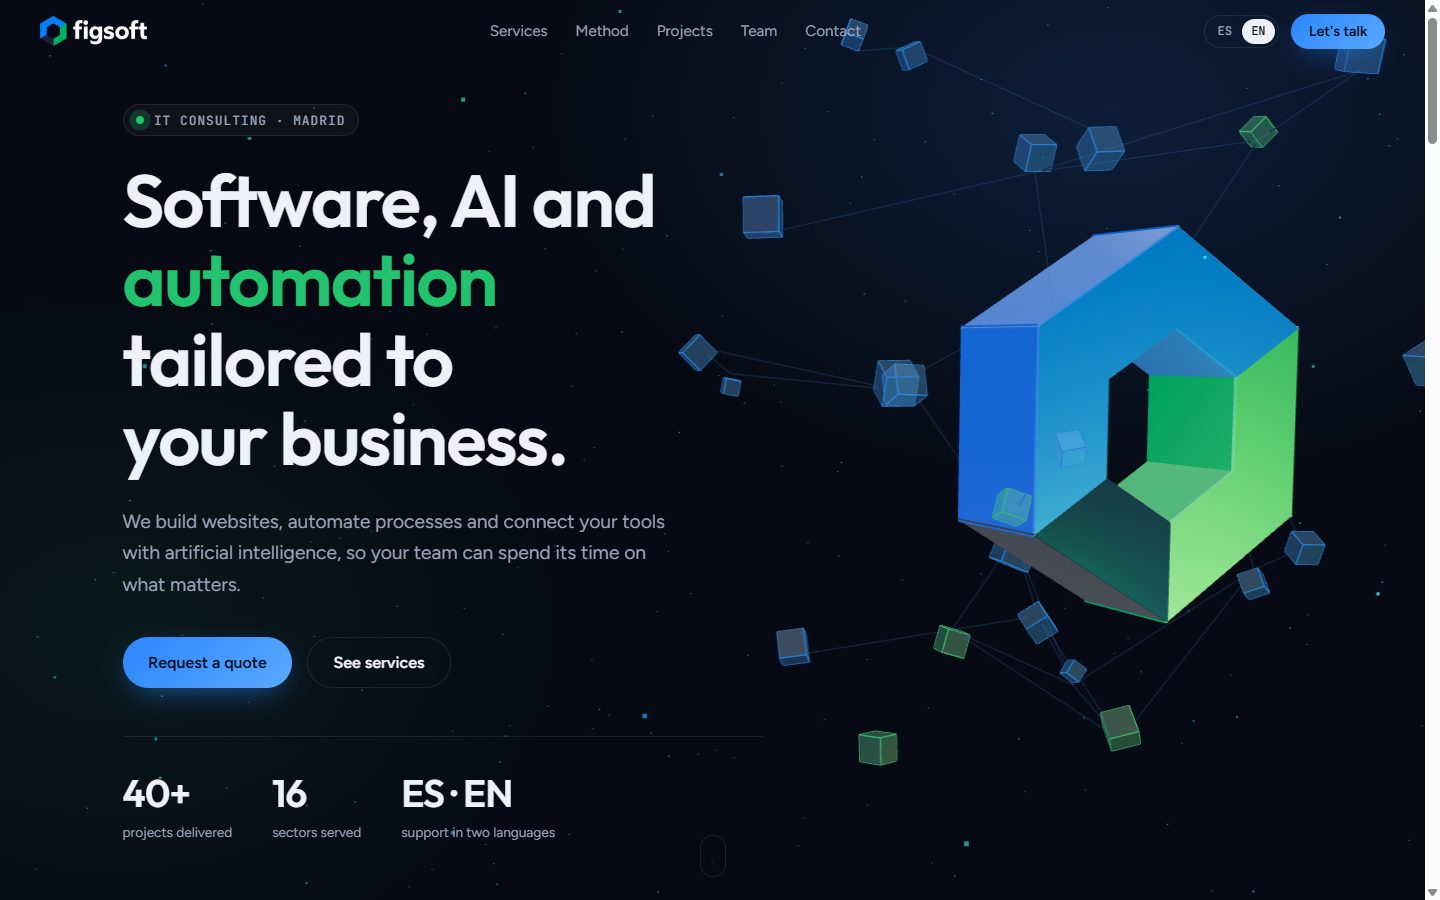
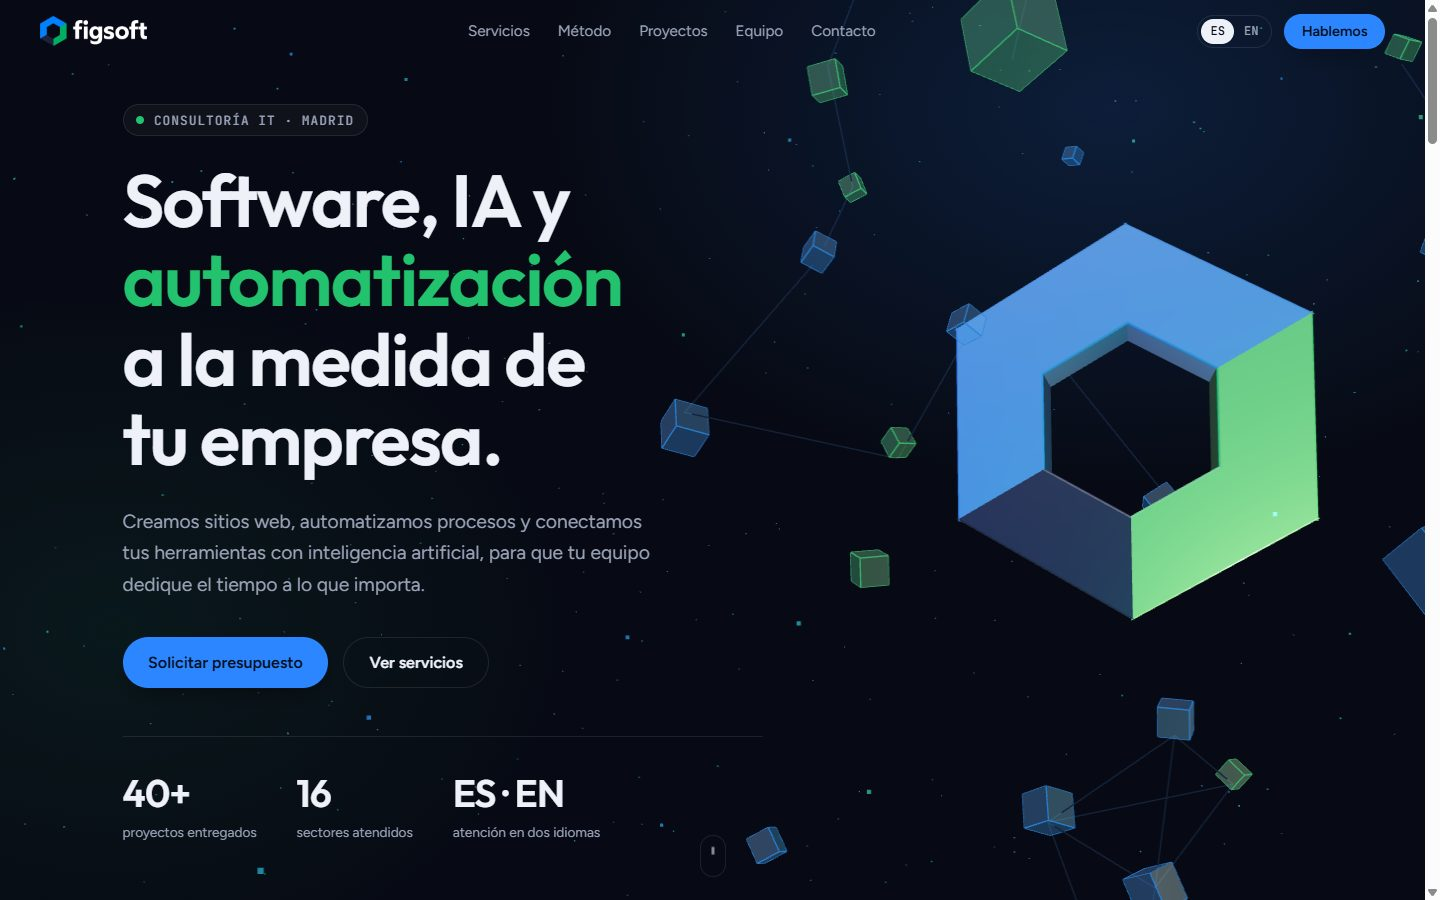
Documentación profesional: README con capturas, diagramas y guía de edición; menú móvil opaco
Claude-Session: https://claude.ai/code/session_014JvWStt7UZUV3uJTwEGxxS

diff --git a/styles.css b/styles.css
@@ -182,7 +182,7 @@ body::before { content: ""; position: fixed; inset: 0; z-index: -1; background:
 }
 @media (max-width: 760px) {
   .burger { display: block; }
-  .nav__links { position: fixed; inset: 64px 1rem auto 1rem; flex-direction: column; gap: 0; background: rgb(11 16 32 / .96); backdrop-filter: blur(18px); border: 1px solid var(--line); border-radius: var(--radius); padding: .5rem; margin: 0; opacity: 0; pointer-events: none; translate: 0 -8px; transition: opacity .3s, translate .3s var(--ease); }
+  .nav__links { position: fixed; inset: 64px 1rem auto 1rem; flex-direction: column; gap: 0; background: #0b1020; backdrop-filter: blur(18px); border: 1px solid var(--line); border-radius: var(--radius); padding: .5rem; margin: 0; opacity: 0; pointer-events: none; translate: 0 -8px; transition: opacity .3s, translate .3s var(--ease); }
   .nav__links.is-open { opacity: 1; pointer-events: auto; translate: 0 0; }
   .nav__links a { padding: .9rem 1rem; font-size: 1.05rem; }
   .nav__tools .btn { display: none; }

diff --git a/README.md b/README.md
@@ -1,46 +1,200 @@
+<div align="center">
+
+<img src="assets/mark.png" alt="Isotipo de Figsoft" width="88">
+
 # Figsoft
 
-Sitio web corporativo de **Figsoft**, consultora informática de Madrid especializada en desarrollo web, automatización de procesos, inteligencia artificial y software a medida.
+**Sitio web corporativo de Figsoft, consultora informática de Madrid**<br>
+Desarrollo web · Automatización · Inteligencia artificial · Software a medida
 
-**Web:** https://figueira205.github.io/Figsoft/
+[![Web](https://img.shields.io/badge/web-figueira205.github.io%2FFigsoft-2b86ff?style=flat-square)](https://figueira205.github.io/Figsoft/)
+![Estática](https://img.shields.io/badge/stack-HTML%20%C2%B7%20CSS%20%C2%B7%20JS-22c26e?style=flat-square)
+![three.js](https://img.shields.io/badge/3D-three.js%200.170-24263c?style=flat-square)
+![Idiomas](https://img.shields.io/badge/idiomas-ES%20%C2%B7%20EN-24263c?style=flat-square)
 
-![Portada](docs/preview.jpg)
+</div>
 
-## Qué hay en la página
+![Portada de la web de Figsoft](docs/preview.jpg)
 
-| Sección | Contenido |
+## Índice
+
+1. [Resumen](#resumen)
+2. [Recorrido por la página](#recorrido-por-la-página)
+3. [Cómo funciona](#cómo-funciona)
+4. [Escena 3D](#escena-3d)
+5. [Sistema de diseño](#sistema-de-diseño)
+6. [Versión móvil](#versión-móvil)
+7. [Accesibilidad y rendimiento](#accesibilidad-y-rendimiento)
+8. [Estructura del repositorio](#estructura-del-repositorio)
+9. [Ejecutar en local](#ejecutar-en-local)
+10. [Cómo editar el contenido](#cómo-editar-el-contenido)
+11. [Despliegue](#despliegue)
+12. [Decisiones de diseño y límites](#decisiones-de-diseño-y-límites)
+
+## Resumen
+
+Una página única que presenta a Figsoft: qué servicios ofrece, cómo trabaja, en qué sectores aplica su trabajo y cómo contactar. Está hecha con HTML, CSS y JavaScript puros, sin compilación ni dependencias que instalar, y se publica tal cual en GitHub Pages.
+
+| Característica | Detalle |
 |---|---|
-| **Portada** | Titular animado por líneas, cifras que se cuentan solas y el isotipo de Figsoft en 3D con una red de nodos que sigue al ratón y al scroll |
-| **Sectores** | Banda continua con los 16 sectores atendidos (se detiene al pasar el cursor) |
-| **Servicios** | Seis tarjetas con inclinación 3D y foco de luz que sigue al cursor: automatización, IA, web y e-commerce, software a medida, Odoo y ERP, consultoría |
-| **Método** | Cuatro fases con una línea de progreso que se rellena al bajar |
-| **Casos de uso** | Cinco escenarios de aplicación: legal, logística, administración pública, farma y fintech |
-| **Tecnología** | Herramientas que se usan en los proyectos |
-| **Equipo** | Fundador y CEO, y Chief Visionary Officer |
-| **Contacto** | Datos de contacto y formulario que abre el correo con el mensaje preparado |
+| Escena 3D | El isotipo del logotipo en three.js, con red de nodos y partículas que reaccionan al ratón y al scroll |
+| Idiomas | Español e inglés con un botón; recuerda la elección |
+| Adaptación | Escritorio, tableta y móvil, con menú propio en pantallas pequeñas |
+| Peso | Sin framework; three.js se carga desde una CDN y solo para la escena |
+| Respaldo | Si no hay WebGL, la web funciona igual con el fondo en degradado |
 
-Está en **español e inglés**: el botón ES/EN cambia todos los textos y recuerda la elección.
+## Recorrido por la página
+
+### Portada
+
+Titular que entra línea a línea, descripción, dos llamadas a la acción con efecto magnético y tres cifras que se cuentan al cargar. A la derecha, el isotipo en 3D. Debajo, una banda continua con los 16 sectores atendidos; se detiene al pasar el cursor.
+
+### Servicios
+
+![Sección de servicios](docs/servicios.jpg)
+
+Seis tarjetas: automatización de procesos, inteligencia artificial, desarrollo web y e-commerce, software a medida, Odoo y ERP, y consultoría IT. Cada una lleva etiquetas con las herramientas implicadas. Con ratón, la tarjeta se inclina en 3D y un foco de luz sigue al cursor.
+
+### Método
+
+![Sección de método](docs/metodo.jpg)
+
+Cuatro fases: diagnóstico, diseño de la solución, construcción por entregas y puesta en marcha. La línea vertical se rellena según avanzas y cada número se enciende al llegar a su fase. El titular queda fijo mientras se recorren los pasos.
+
+### Casos de uso
+
+![Sección de casos de uso](docs/proyectos.jpg)
+
+Cinco escenarios de aplicación: validación legal automatizada, CRM logístico con IA, atención ciudadana, control de stock farmacéutico y detección de fraude. Son ejemplos del tipo de trabajo, no proyectos con cliente nombrado.
+
+### Tecnología y equipo
+
+![Sección de equipo](docs/equipo.jpg)
+
+Una nube de etiquetas con las herramientas que se usan en los proyectos (n8n, Make, Odoo, Python, TypeScript, React, Vue, Angular, Node.js, PostgreSQL, Docker, Gemini API, WooCommerce, Supabase, Stripe, RabbitMQ, Django y Unity) y las tarjetas del equipo.
+
+### Contacto
+
+![Sección de contacto](docs/contacto.jpg)
+
+Correo, teléfonos y ubicación, más un formulario. Al enviarlo se validan los campos y se abre la aplicación de correo con el mensaje ya redactado, porque la web no tiene servidor.
+
+### Versión en inglés
+
+![Portada en inglés](docs/ingles.jpg)
+
+El botón **ES / EN** del menú cambia todos los textos sin recargar la página.
 
 ## Cómo funciona
 
-- **Sin compilación.** HTML, CSS y JavaScript puros, publicados con GitHub Pages. No hay `npm install` ni paso de build.
-- **Escena 3D (`scene.js`).** Usa [three.js](https://threejs.org) 0.170 cargado desde jsDelivr. El isotipo se construye con seis piezas hexagonales extruidas, una por lado, con los colores del logotipo (azul, verde y azul marino). Alrededor hay 30 cubos conectados por líneas y 900 partículas. El ratón gira el isotipo y mueve la cámara; el scroll lo desplaza, lo aleja y atenúa el lienzo para que no compita con el texto.
-- **Si falla el 3D.** Si el navegador no tiene WebGL o la CDN no responde, la escena se omite y la web sigue funcionando con el fondo en degradado.
-- **Interfaz (`main.js`).** Idioma, menú móvil, barra de navegación con cristal, entrada de bloques al hacer scroll, contadores, línea de progreso del método, botones magnéticos, inclinación de tarjetas y validación del formulario.
-- **Estilos (`styles.css`).** Tokens de color tomados del logotipo, tipografías Outfit, Figtree y JetBrains Mono, y adaptación a móvil.
-- **Movimiento reducido.** Con `prefers-reduced-motion` se apagan las animaciones y la escena 3D se dibuja una sola vez, sin bucle.
-- **Accesibilidad.** Enlace de salto, foco visible, menú con `aria-expanded` y contraste sobre fondo oscuro.
+```mermaid
+flowchart LR
+  A["index.html<br/>contenido y metadatos"] --> B["styles.css<br/>diseño y adaptación"]
+  A --> C["main.js<br/>interfaz"]
+  C --> D["scene.js<br/>escena 3D"]
+  D --> E["three.js<br/>CDN jsDelivr"]
+  C --> F["Idioma ES / EN<br/>localStorage"]
+  C --> G["Formulario<br/>mailto"]
+```
 
-## Estructura
+1. **`index.html`** contiene todo el texto en español. Cada elemento traducible lleva un atributo `data-i18n` con su clave.
+2. **`main.js`** se carga como módulo. Al arrancar lee los textos en español del propio HTML, guarda el diccionario inglés y alterna entre ambos. Después activa la barra de navegación, el menú móvil, las animaciones de entrada y los efectos del cursor.
+3. **`scene.js`** se importa dinámicamente y dentro de un `try/catch`. Si el navegador no tiene WebGL, o la CDN no responde, solo se omite la escena.
+4. **`styles.css`** define los colores como variables y todos los componentes.
 
-| Archivo | Función |
+### Piezas de interfaz
+
+| Pieza | Cómo está resuelta |
 |---|---|
-| `index.html` | Contenido y metadatos (Open Graph y datos estructurados) |
-| `styles.css` | Sistema de diseño y componentes |
-| `main.js` | Interfaz, idioma y formulario |
-| `scene.js` | Escena 3D con three.js |
-| `assets/` | Logotipos (claro y oscuro), isotipo e iconos |
-| `docs/preview.jpg` | Captura usada en este README y al compartir el enlace |
+| Titular por líneas | Cada línea es un `span` con `overflow: hidden`; el texto interior sube con una transición al añadir la clase `is-in` |
+| Entrada al hacer scroll | `IntersectionObserver` añade `is-in` a cada bloque. La clase `js` solo se pone desde JavaScript, así que sin JS todo queda visible |
+| Contadores | Interpolación con curva de salida durante 1,6 s |
+| Barra de navegación | Un centinela de 60 px en lo alto detecta el scroll y activa el fondo de cristal |
+| Línea del método | La variable CSS `--p` (0 a 1) escala la barra según la posición en pantalla |
+| Botones magnéticos | Calculan el desplazamiento del cursor respecto al centro y lo aplican con variables CSS |
+| Tarjetas inclinadas | Las variables `--rx` y `--ry` rotan la tarjeta; `--mx` y `--my` colocan el foco de luz |
+| Formulario | Valida nombre, correo y mensaje, y construye un enlace `mailto:` con el contenido |
+
+## Escena 3D
+
+El isotipo no es una imagen: se construye en código con seis piezas hexagonales extruidas, una por lado del hexágono, cada una con su color del logotipo.
+
+```mermaid
+flowchart TB
+  S["Escena three.js"] --> M["Isotipo<br/>6 piezas extruidas"]
+  S --> N["Red de nodos<br/>30 cubos y líneas"]
+  S --> P["Partículas<br/>900 puntos"]
+  S --> L["Luces<br/>clave, azul y verde"]
+  I1["Ratón"] --> M
+  I1 --> C["Cámara"]
+  I2["Scroll"] --> M
+  I2 --> O["Opacidad del lienzo"]
+```
+
+| Elemento | Detalle |
+|---|---|
+| Isotipo | Lados azul, verde y azul marino como en el logotipo. Material físico con capa transparente y entorno suave para los reflejos |
+| Red de nodos | 30 cubos translúcidos con borde, unidos por líneas cuando están cerca. Giran y flotan con un desfase propio |
+| Partículas | 900 puntos con mezcla aditiva entre azul y verde |
+| Ratón | Gira el isotipo y desplaza la cámara con suavizado |
+| Scroll | Mueve y aleja el conjunto y baja la opacidad del lienzo para que no compita con el texto |
+| Móvil | Isotipo más pequeño, centrado y con el lienzo atenuado para mantener la lectura |
+| Pestaña oculta | El bucle de dibujo se detiene |
+| Movimiento reducido | Se dibuja un solo fotograma, sin bucle |
+
+## Sistema de diseño
+
+Los colores salen del logotipo. Una sola marca, dos acentos y fondos azul marino muy oscuros.
+
+| Token | Valor | Uso |
+|---|---|---|
+| `--blue` | `#2b86ff` | Acento principal, botones y foco |
+| `--green` | `#22c26e` | Acento secundario, etiquetas y estados |
+| `--navy` | `#24263c` | Tono del logotipo, usado en la escena 3D |
+| `--bg` | `#070a14` | Fondo de la página |
+| `--surface` | `#101528` | Tarjetas y formulario |
+| `--muted` | `#9aa3b8` | Texto secundario |
+
+**Tipografías:** Outfit para titulares (su geometría recuerda a la del logotipo), Figtree para el texto y JetBrains Mono para etiquetas y datos.
+
+**Reglas aplicadas:** un solo acento por componente, radios de 18 px en superficies y píldoras en controles, sombras neutras (sin brillos de color), foco visible y texto con contraste suficiente sobre el fondo oscuro.
+
+## Versión móvil
+
+<p>
+  <img src="docs/movil-portada.jpg" alt="Portada en móvil" width="240">
+  <img src="docs/movil-servicios.jpg" alt="Servicios en móvil" width="240">
+  <img src="docs/movil-menu.jpg" alt="Menú en móvil" width="240">
+</p>
+
+Por debajo de 760 px las columnas pasan a una y el menú se convierte en un panel desplegable. El isotipo se centra detrás de la portada, atenuado, y el botón de contacto se retira de la barra porque ya está en el menú y en la portada.
+
+## Accesibilidad y rendimiento
+
+- Enlace de salto al contenido y foco visible en todos los controles.
+- El menú móvil usa `aria-expanded`, `aria-controls` y se cierra con `Escape`.
+- La escena 3D es decorativa (`aria-hidden`) y no captura el puntero.
+- Con `prefers-reduced-motion` se desactivan transiciones, la banda de sectores y el bucle 3D.
+- El idioma actualiza el atributo `lang` del documento.
+- Resolución del lienzo limitada a 2x y bucle detenido con la pestaña en segundo plano.
+- Metadatos Open Graph y datos estructurados `ProfessionalService` para buscadores y vistas previas.
+
+## Estructura del repositorio
+
+```text
+Figsoft/
+├── index.html          Contenido, metadatos y datos estructurados
+├── styles.css          Variables de color, componentes y adaptación
+├── main.js             Interfaz, idioma y formulario
+├── scene.js            Escena 3D con three.js
+├── assets/
+│   ├── logo.webp       Logotipo para fondo oscuro
+│   ├── logo-dark.webp  Logotipo para fondo claro
+│   ├── mark.png        Isotipo
+│   ├── favicon.png     Icono de pestaña
+│   └── apple-touch-icon.png
+└── docs/               Capturas de este README
+```
 
 ## Ejecutar en local
 
@@ -50,8 +204,32 @@ cd Figsoft
 python -m http.server 8000
 ```
 
-Abre http://localhost:8000. Hace falta servirlo por HTTP porque los módulos de JavaScript no cargan desde `file://`.
+Abre http://localhost:8000. Hay que servirlo por HTTP: los módulos de JavaScript no cargan desde `file://`. Cualquier servidor estático sirve (`npx serve`, la extensión Live Server de VS Code, etc.).
 
-## Qué cambió respecto a la versión anterior
+## Cómo editar el contenido
 
-La versión anterior era un proyecto Angular sin compilar, por lo que GitHub Pages mostraba una página en blanco. Se sustituyó por esta web estática. También se quitaron las noticias, que usaban imágenes de relleno, y el chatbot, que necesitaba una clave de API de Gemini en el navegador (cualquier visitante podría haberla leído).
+| Quiero... | Dónde |
+|---|---|
+| Cambiar un texto | En `index.html`, el texto en español. El inglés está en el objeto `EN` de `main.js`, con la misma clave `data-i18n` |
+| Añadir un servicio | Duplica un `<article class="card">` en `index.html`, cambia su número y claves, y añade las dos traducciones |
+| Añadir una herramienta | Añádela al array `STACK` de `main.js` |
+| Cambiar la lista de sectores | Objeto `SECTORS` de `main.js`, en español e inglés |
+| Cambiar los colores | Variables de `:root` en `styles.css`; los colores de la escena están al principio de `scene.js` |
+| Cambiar los datos de contacto | Sección `#contacto` de `index.html` y la dirección del `mailto:` en `main.js` |
+| Añadir un idioma | Crea un diccionario como `EN`, añade su lista de sectores y amplía el botón de idioma |
+
+## Despliegue
+
+La web se publica con **GitHub Pages** desde la rama `main`, carpeta raíz. Cada `git push` a `main` la actualiza en uno o dos minutos. No hay paso de compilación.
+
+## Decisiones de diseño y límites
+
+- **Sin chatbot.** La versión anterior incluía un asistente con la API de Gemini que necesitaba la clave en el navegador, donde cualquier visitante podía leerla. Con una web estática no hay forma segura de guardarla. Para recuperarlo haría falta un pequeño servidor o un flujo en n8n que haga de intermediario.
+- **Sin noticias.** La sección anterior usaba imágenes de relleno y no tenía contenido detrás.
+- **Formulario por correo.** Sin servidor, el formulario abre el cliente de correo del visitante. Para recibir mensajes sin esa acción habría que conectar un servicio de formularios.
+- **Casos de uso genéricos.** Describen el tipo de solución, no clientes concretos.
+- **Dependencia de una CDN.** three.js se carga desde jsDelivr con versión fija. Si se quiere independencia total, se puede copiar a `assets/` y cambiar el `importmap` de `index.html`.
+
+## Historia
+
+La versión anterior era un proyecto Angular sin compilar, por lo que GitHub Pages mostraba una página en blanco. Esta versión la sustituye por una web estática con la identidad visual del logotipo.
